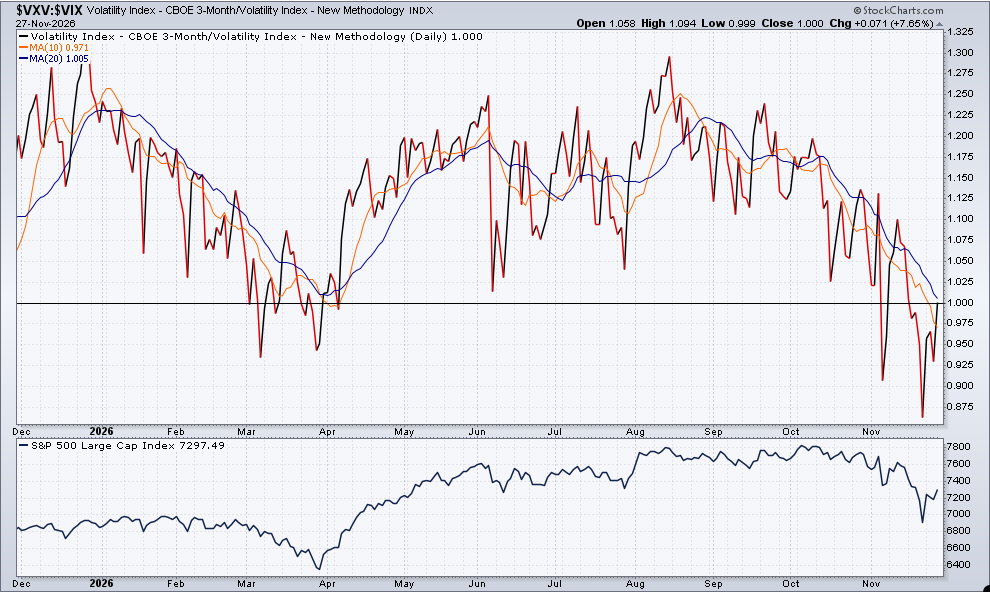
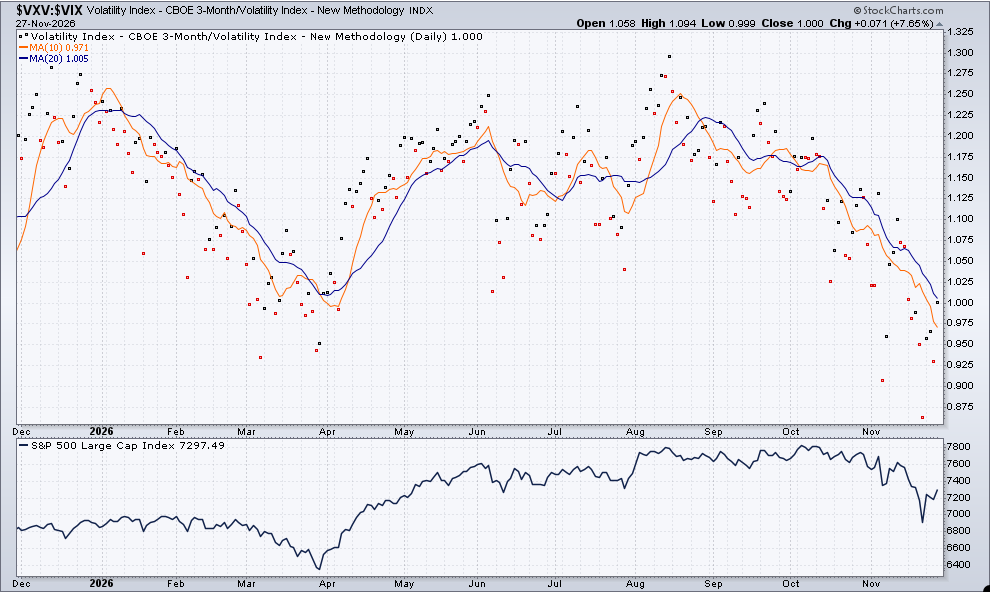
Update VXV:VIX chart source to schrts.co/bRkIKAgS
Point the Market Sentiment VXV:VIX card and capture job at the
replacement schrts permalink and refresh the screenshot.

diff --git a/index.html b/index.html
@@ -494,7 +494,7 @@
           <img class="thumb" src="screenshots/aaii.png" alt="AAII sentiment survey" width="1000" height="876">
           <div class="meta"><div><div class="title">AAII Investor Sentiment</div><div class="caption">Opinions of individual investors on where the market is heading in the next six months</div></div><div class="dim">A1Trading</div></div>
         </button>
-        <button class="card w-12 js-open card-vxv" data-title="VXV:VIX" data-dim="3-month vs 1-month VIX term structure ratio" data-img="screenshots/vxv-vix.png" data-link="https://schrts.co/ZXBXhKEs">
+        <button class="card w-12 js-open card-vxv" data-title="VXV:VIX" data-dim="3-month vs 1-month VIX term structure ratio" data-img="screenshots/vxv-vix.png" data-link="https://schrts.co/bRkIKAgS">
           <img class="thumb" src="screenshots/vxv-vix.png" alt="VXV to VIX ratio chart" width="990" height="592">
           <div class="meta"><div><div class="title">VXV:VIX</div><div class="caption">3-month vs 1-month VIX term structure ratio</div></div><div class="dim">Schrts</div></div>
         </button>
